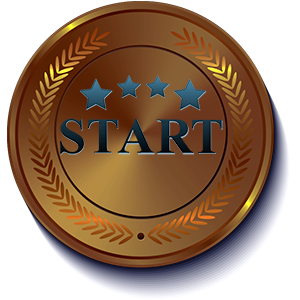
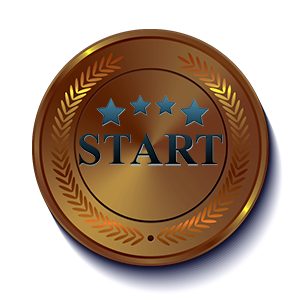
Alterações imagens promoter start.

diff --git a/view/monetizacao.html b/view/monetizacao.html
@@ -683,7 +683,7 @@ desired effect
           <!-- small box -->
           <div class="info-box bg-green" title="Situação Atual" data-toggle="popover" data-trigger="hover" data-placement="top" data-content="Seus pontos obtidos até o momento. Mantenha sua conta ativa para não perder seus Bônus e Comissões.">
             <span class="info-box-icon img-promoter-brasao">
-				<img class="img-promoter-brasao" src="../img/painel/promoter_diamond.png" alt="Alt Text">
+				<img class="img-promoter-brasao" src="../img/painel/promoter_start_3_estrela.png" alt="Alt Text">
             </span>
 
             <div class="info-box-content">
